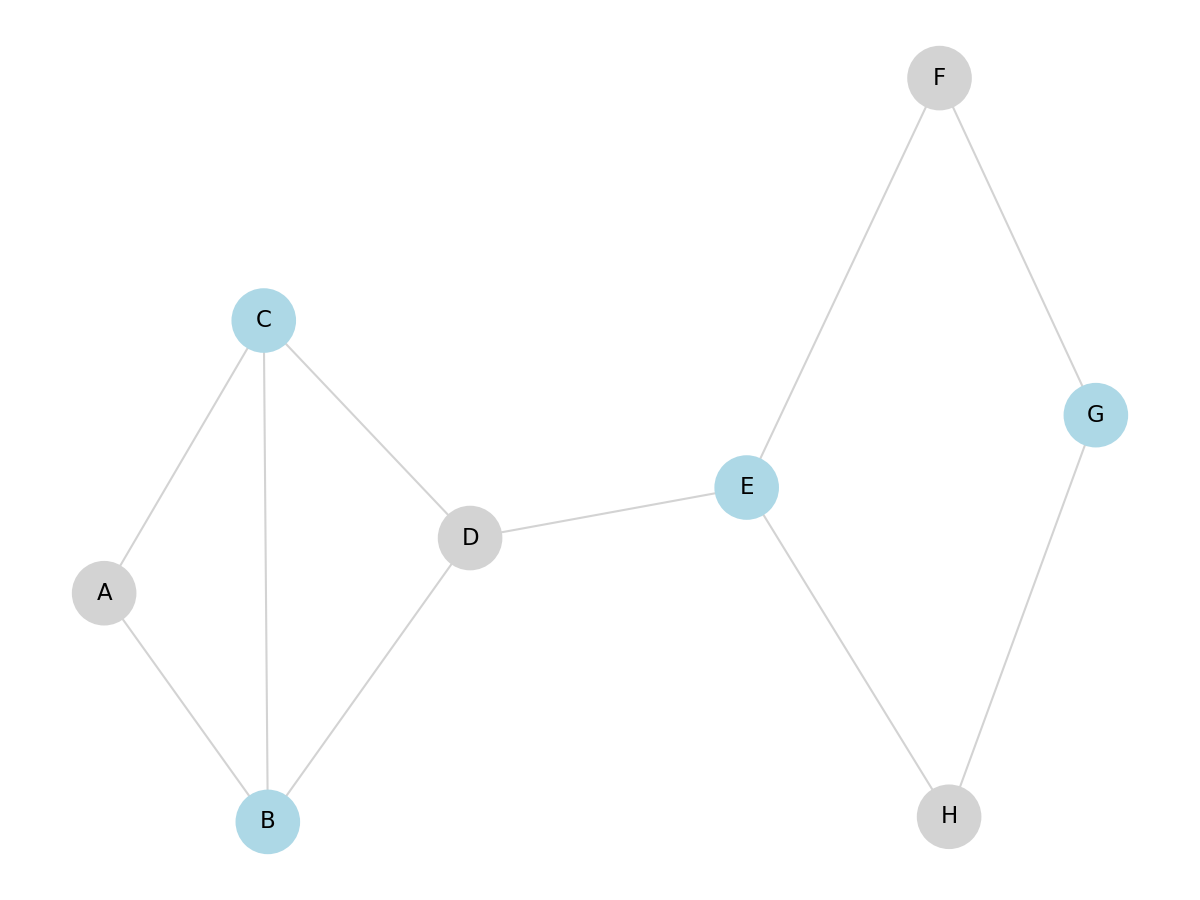
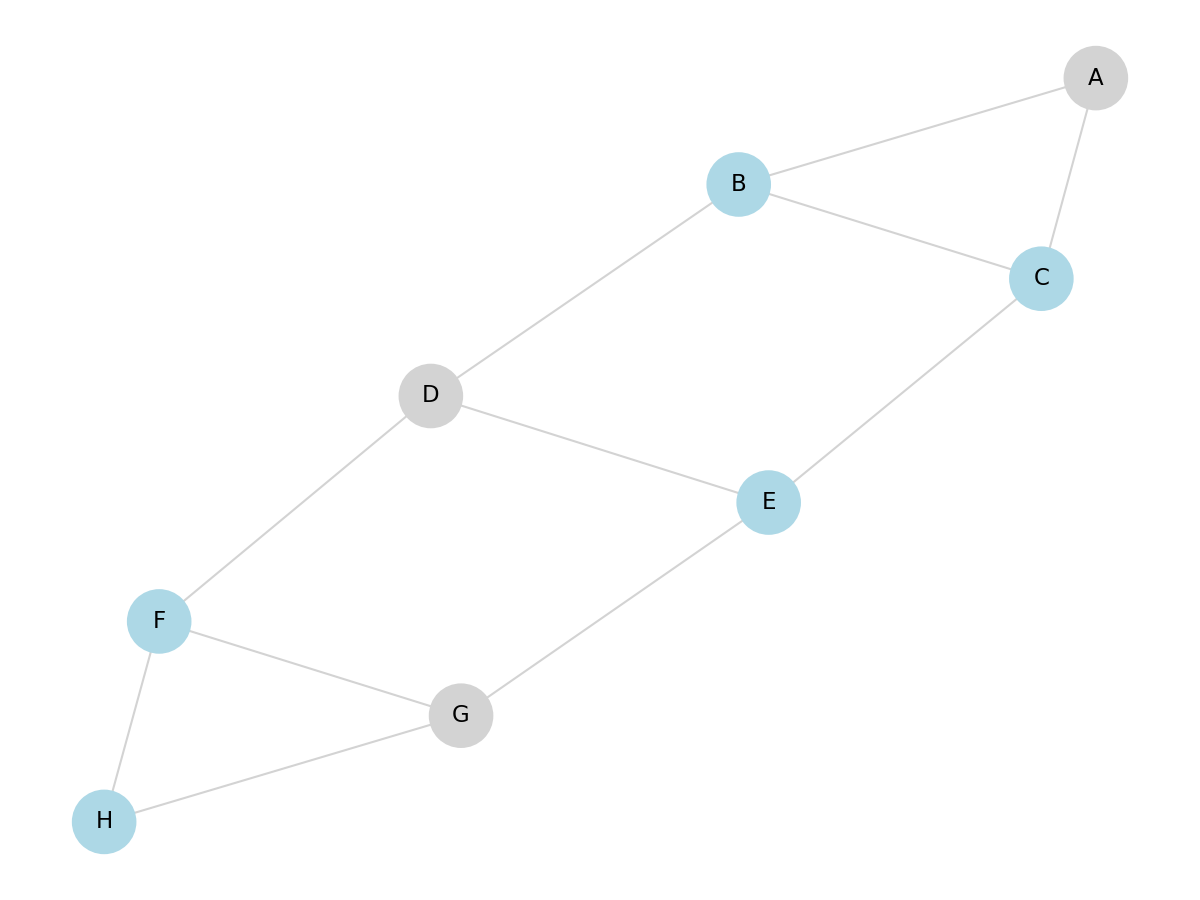
Algumas mudanças na implementação para melhor leitura

diff --git a/conjuntos.py b/conjuntos.py
@@ -5,7 +5,7 @@ import networkx as nx
 
 
 def conjunto_estavel_guloso(G):
-    """Calcula um conjunto estavel maximal pela heuristica de grau minimo."""
+    """Gera um conjunto estavel maximal."""
     grafo_trabalho = G.copy()
     conjunto_estavel = []
 
@@ -25,7 +25,7 @@ def conjunto_estavel_guloso(G):
 
 
 def cobertura_vertices(G, conjunto_estavel):
-    """Retorna V - S, onde S e um conjunto estavel."""
+    """Retorna a cobertura com a subtração dos vertices menos o conjunto estavel."""
     cobertura = []
 
     for vertice in G.nodes():
@@ -36,13 +36,13 @@ def cobertura_vertices(G, conjunto_estavel):
 
 
 def clique_maximal(G):
-    """Calcula uma clique maximal reutilizando a heuristica no complementar."""
+    """Gera o clique reutilizando a função do conjunto estavel e o grafo complementar."""
     grafo_complementar = gerar_grafo_complementar(G)
     return conjunto_estavel_guloso(grafo_complementar)
 
 
 def gerar_grafo_complementar(G):
-    """Cria manualmente o complementar de um grafo simples nao direcionado."""
+    """Cria o grafo complementar para usar no clique"""
     grafo_complementar = nx.Graph()
     vertices = list(G.nodes())
 